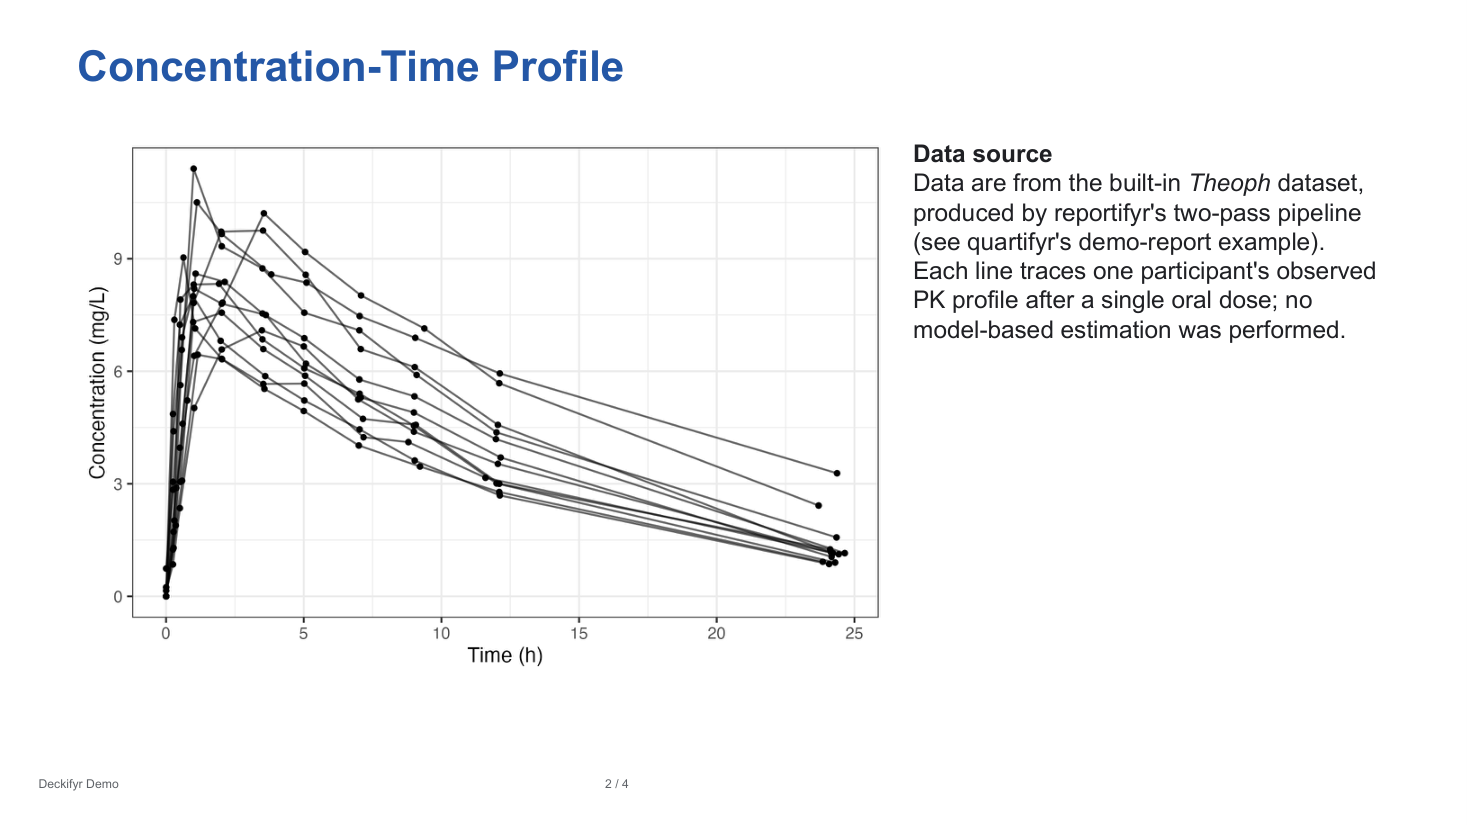
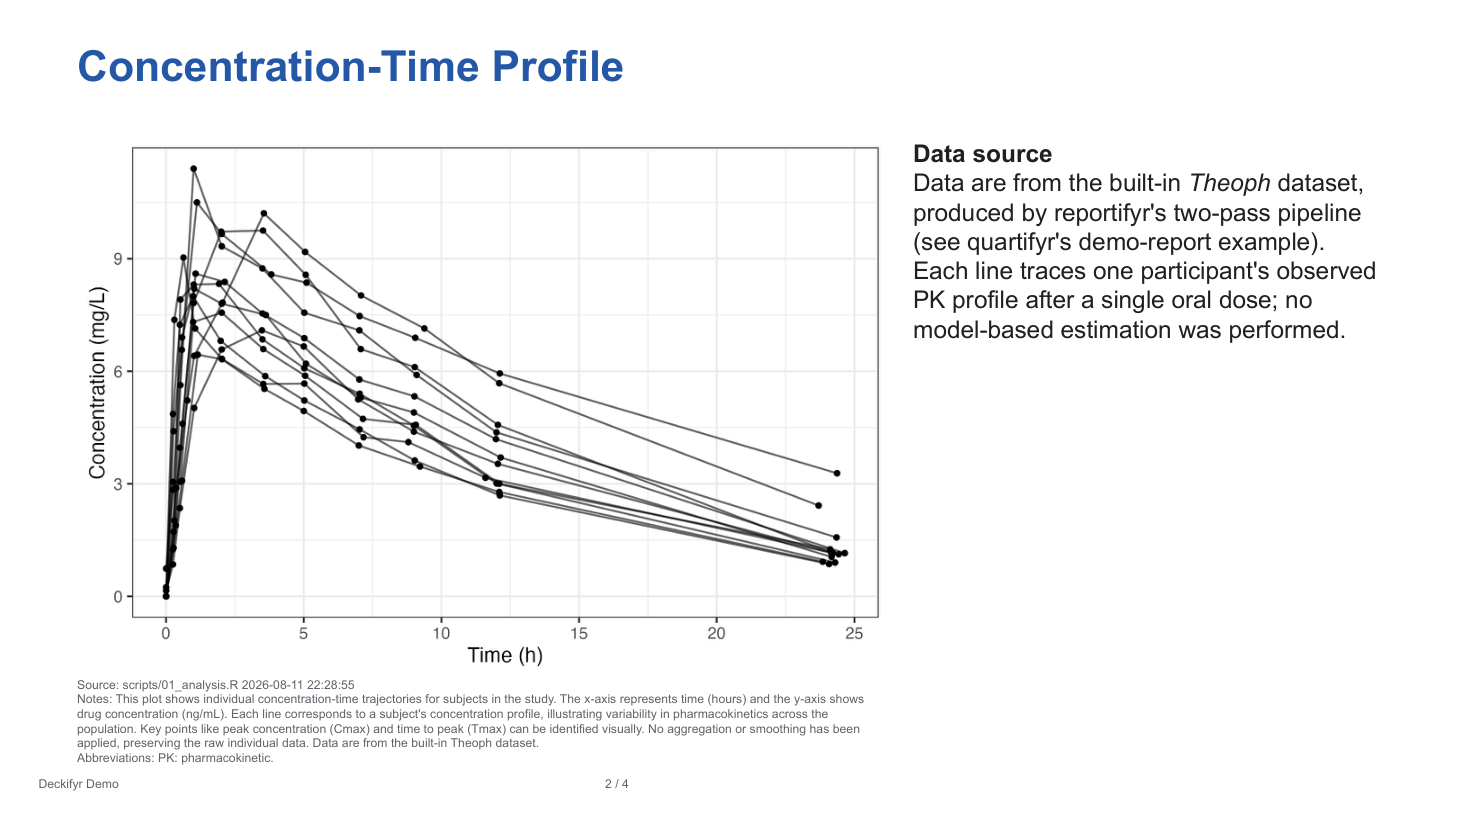
Regenerate stale demo-deck screenshots and add a staleness pre-commit reminder
man/figures/demo-deck-pk-summary.png and demo-deck-concentration-time.png
were captured before (or without) a rebuild that picked up the
table_styles chrome (a4feb6b) and the reportifyr footer (3490aae) --
the committed table still showed python-pptx's bundled default theme
colors instead of design.yaml's custom navy header/banding, and the
concentration-time slide's footer text (Source/Notes/Abbreviations)
was missing entirely. Regenerated both, plus man/figures/demo-deck.pptx,
from a real `deckifyr build examples/demo-deck/presentation.yaml`
(title/closing screenshots came back pixel-identical, confirming they
were already current).

Also adds .githooks/pre-commit, mirroring ../quartifyr's own hook: a
reminder (not an enforcer) that fires when a commit touches a source
that feeds this asset group -- examples/demo-deck's own YAML, or the
engine's schema/plan/pptx/resolvers -- without also touching the
screenshots or the downloadable .pptx, so this doesn't happen silently
again. Opt in per clone with `git config core.hooksPath .githooks`
(see CONTRIBUTING.md).

Changed region(s): [[0.0307, 0.8182, 0.5828, 0.9394]]

diff --git a/CONTRIBUTING.md b/CONTRIBUTING.md
@@ -1,5 +1,22 @@
 # Contributing
 
+## Git hooks
+
+```bash
+git config core.hooksPath .githooks
+```
+
+One-time, per clone. Currently just `.githooks/pre-commit`: a reminder
+(not a hard requirement, mirroring `../quartifyr`'s own hook) that warns
+when a commit touches a source that feeds `man/figures/demo-deck-*.png`
+or the downloadable `man/figures/demo-deck.pptx` -- e.g.
+`examples/demo-deck/presentation.yaml` or the PPTX compositor in
+`inst/python/deckifyr/pptx/` -- without also touching that asset group.
+See the hook script itself for the exact trigger list and the
+regeneration recipe. Skip a false positive (a comment or refactor with
+identical composed output, say) with `SKIP_DOCS_ASSET_CHECK=1 git commit`
+or `git commit --no-verify`.
+
 ## Python setup
 
 ```bash
